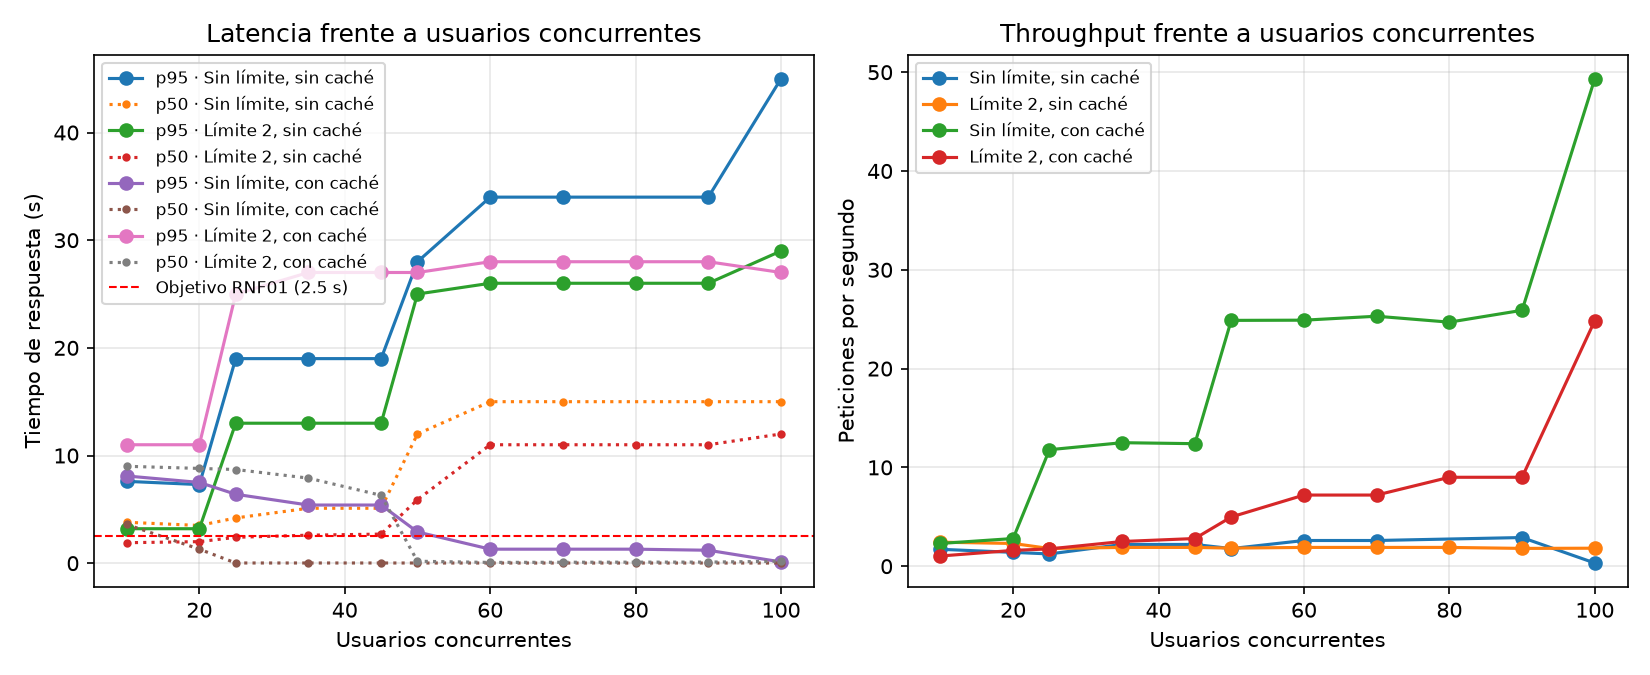
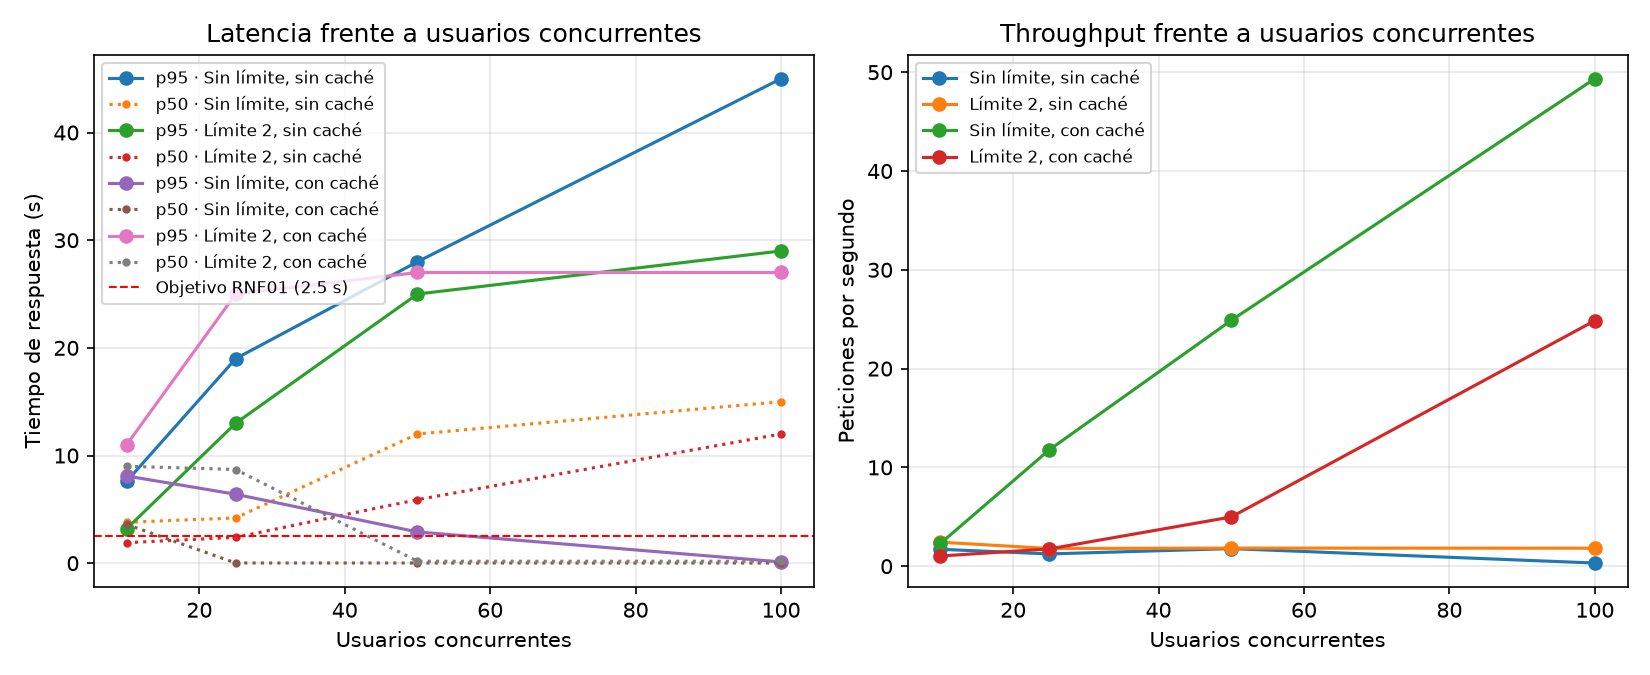
fix: analyze_load.py resume solo los escalones configurados (--steps)

diff --git a/evaluation/analyze_load.py b/evaluation/analyze_load.py
@@ -27,17 +27,20 @@ def to_float(value):
     return None if math.isnan(number) else number
 
 
-def summarize(prefix, ramp_seconds):
+def summarize(prefix, ramp_seconds, steps=None):
     path = prefix if prefix.endswith(".csv") else f"{prefix}_stats_history.csv"
     with open(path, newline="", encoding="utf-8") as handle:
         rows = [r for r in csv.DictReader(handle) if r.get("Name") == "Aggregated"]
-    steps = {}
+    groups = {}
     for row in rows:
         users = int(to_float(row.get("User Count")) or 0)
         if users:
-            steps.setdefault(users, []).append(row)
+            groups.setdefault(users, []).append(row)
+    if steps:
+        # Solo los escalones configurados: los conteos intermedios son la rampa entre escalones
+        groups = {u: rows_ for u, rows_ in groups.items() if u in steps}
     results = []
-    for users, items in sorted(steps.items()):
+    for users, items in sorted(groups.items()):
         start = to_float(items[0]["Timestamp"])
         stable = [r for r in items if to_float(r["Timestamp"]) - start >= ramp_seconds] or items
         rps = [to_float(r["Requests/s"]) for r in stable if to_float(r["Requests/s"]) is not None]
@@ -65,13 +68,16 @@ def main():
     parser.add_argument("prefixes", nargs="+", help="prefijos usados en locust --csv")
     parser.add_argument("--labels", nargs="+", help="nombre de cada escenario")
     parser.add_argument("--ramp-seconds", type=float, default=15.0)
+    parser.add_argument("--steps", default=os.getenv("STEP_USERS", "10,25,50,100"),
+                        help="escalones de usuarios que se configuraron en la prueba (los demás se ignoran)")
     parser.add_argument("--out", default=os.path.join("evaluation", "results", "carga_resumen"))
     args = parser.parse_args()
     labels = args.labels or [os.path.basename(p) for p in args.prefixes]
     if len(labels) != len(args.prefixes):
         parser.error("--labels debe tener un nombre por cada prefijo")
 
-    scenarios = [(label, summarize(prefix, args.ramp_seconds)) for label, prefix in zip(labels, args.prefixes)]
+    steps = {int(u) for u in args.steps.split(",") if u.strip()}
+    scenarios = [(label, summarize(prefix, args.ramp_seconds, steps)) for label, prefix in zip(labels, args.prefixes)]
     lines = ["# Resumen de pruebas de carga", "",
              f"Latencias en segundos. RNF01: p95 < {RNF01_SECONDS} s. Percentiles aproximados a partir de "
              "las ventanas de Locust, descartando la rampa de cada escalón.", ""]

diff --git a/evaluation/results/fase3/carga_resumen.md b/evaluation/results/fase3/carga_resumen.md
@@ -7,14 +7,8 @@ Latencias en segundos. RNF01: p95 < 2.5 s. Percentiles aproximados a partir de l
 | Usuarios | Throughput (req/s) | p50 (s) | p95 (s) | Errores | ¿Cumple RNF01? |
 |---|---|---|---|---|---|
 | 10 | 1.71 | 3.800 | 7.600 | 0.00 % | no |
-| 20 | 1.40 | 3.500 | 7.300 | 0.00 % | no |
 | 25 | 1.24 | 4.200 | 19.000 | 0.00 % | no |
-| 35 | 2.20 | 5.100 | 19.000 | 0.00 % | no |
-| 45 | 2.20 | 5.100 | 19.000 | 0.00 % | no |
 | 50 | 1.78 | 12.000 | 28.000 | 7.89 % | no |
-| 60 | 2.60 | 15.000 | 34.000 | 0.00 % | no |
-| 70 | 2.60 | 15.000 | 34.000 | 0.00 % | no |
-| 90 | 2.90 | 15.000 | 34.000 | 0.00 % | no |
 | 100 | 0.32 | 15.000 | 45.000 | 3.80 % | no |
 
 ## Límite 2, sin caché
@@ -22,15 +16,8 @@ Latencias en segundos. RNF01: p95 < 2.5 s. Percentiles aproximados a partir de l
 | Usuarios | Throughput (req/s) | p50 (s) | p95 (s) | Errores | ¿Cumple RNF01? |
 |---|---|---|---|---|---|
 | 10 | 2.43 | 1.900 | 3.200 | 0.00 % | no |
-| 20 | 2.30 | 2.000 | 3.200 | 0.00 % | no |
 | 25 | 1.79 | 2.400 | 13.000 | 0.00 % | no |
-| 35 | 1.90 | 2.600 | 13.000 | 0.00 % | no |
-| 45 | 1.90 | 2.700 | 13.000 | 0.00 % | no |
 | 50 | 1.83 | 5.900 | 25.000 | 0.00 % | no |
-| 60 | 1.90 | 11.000 | 26.000 | 0.00 % | no |
-| 70 | 1.90 | 11.000 | 26.000 | 0.00 % | no |
-| 80 | 1.90 | 11.000 | 26.000 | 0.00 % | no |
-| 90 | 1.80 | 11.000 | 26.000 | 0.00 % | no |
 | 100 | 1.82 | 12.000 | 29.000 | 0.00 % | no |
 
 ## Sin límite, con caché
@@ -38,15 +25,8 @@ Latencias en segundos. RNF01: p95 < 2.5 s. Percentiles aproximados a partir de l
 | Usuarios | Throughput (req/s) | p50 (s) | p95 (s) | Errores | ¿Cumple RNF01? |
 |---|---|---|---|---|---|
 | 10 | 2.30 | 3.600 | 8.100 | 0.00 % | no |
-| 20 | 2.80 | 1.300 | 7.500 | 0.00 % | no |
 | 25 | 11.79 | 0.017 | 6.400 | 0.00 % | no |
-| 35 | 12.50 | 0.017 | 5.400 | 0.00 % | no |
-| 45 | 12.40 | 0.017 | 5.400 | 0.00 % | no |
 | 50 | 24.88 | 0.015 | 2.900 | 0.00 % | no |
-| 60 | 24.90 | 0.014 | 1.300 | 0.00 % | sí |
-| 70 | 25.30 | 0.014 | 1.300 | 0.00 % | sí |
-| 80 | 24.70 | 0.014 | 1.300 | 0.00 % | sí |
-| 90 | 25.90 | 0.014 | 1.200 | 0.00 % | sí |
 | 100 | 49.34 | 0.013 | 0.115 | 0.00 % | sí |
 
 ## Límite 2, con caché
@@ -54,13 +34,6 @@ Latencias en segundos. RNF01: p95 < 2.5 s. Percentiles aproximados a partir de l
 | Usuarios | Throughput (req/s) | p50 (s) | p95 (s) | Errores | ¿Cumple RNF01? |
 |---|---|---|---|---|---|
 | 10 | 1.03 | 9.000 | 11.000 | 0.00 % | no |
-| 20 | 1.60 | 8.800 | 11.000 | 0.00 % | no |
 | 25 | 1.75 | 8.700 | 25.000 | 0.00 % | no |
-| 35 | 2.50 | 7.900 | 27.000 | 0.00 % | no |
-| 45 | 2.80 | 6.300 | 27.000 | 0.00 % | no |
 | 50 | 4.98 | 0.180 | 27.000 | 0.00 % | no |
-| 60 | 7.20 | 0.070 | 28.000 | 0.00 % | no |
-| 70 | 7.20 | 0.084 | 28.000 | 0.00 % | no |
-| 80 | 9.00 | 0.095 | 28.000 | 0.00 % | no |
-| 90 | 9.00 | 0.100 | 28.000 | 0.00 % | no |
 | 100 | 24.85 | 0.180 | 27.000 | 0.00 % | no |
